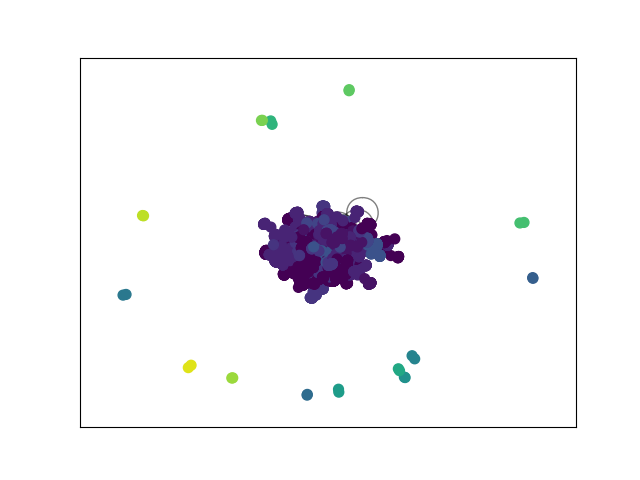
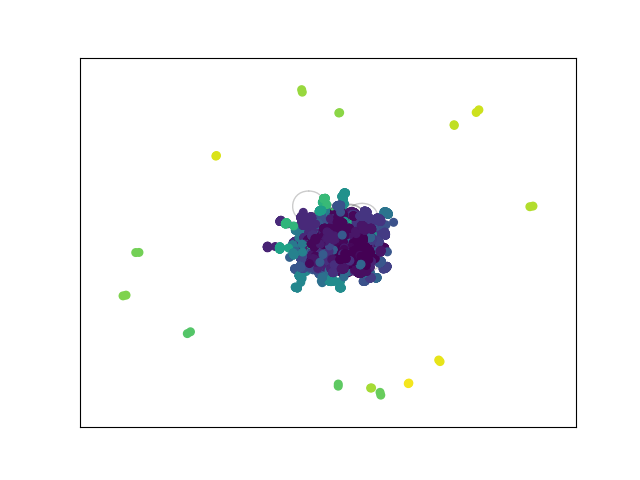
Revisions

diff --git a/Analysis.py b/Analysis.py
@@ -1,9 +1,10 @@
 import networkx as nx
 import matplotlib.pyplot as plt
+import numpy as np
+#%%
 
 
 
-# Apply Force-Directed layout algorithm to position nodes
 def mixing_analysis(graph, attribute):
     assortativity_coefficient = nx.attribute_assortativity_coefficient(graph, attribute)
     print(assortativity_coefficient)
@@ -13,7 +14,7 @@ def mixing_analysis(graph, attribute):
 
 def detect_communities(graph):
     # Find communities using the greedy modularity maximization
-    communities = nx.community.greedy_modularity_communities(graph,best_n=20)
+    communities = nx.community.greedy_modularity_communities(graph,best_n=100)
 
     # Visualization setup
     pos = nx.spring_layout(graph)  # Node positions in 2D space using spring layout
@@ -26,10 +27,10 @@ def detect_communities(graph):
             color_map[node] = idx  # Assign community index as color
 
     # Draw nodes with community colors
-    nx.draw_networkx_nodes(graph, pos, node_color=[colors(color_map[node] / len(communities)) for node in graph], node_size=50)
+    nx.draw_networkx_nodes(graph, pos, node_color=[colors(color_map[node] / len(communities)) for node in graph], node_size=30)
 
     # Draw edges
-    nx.draw_networkx_edges(graph, pos, alpha=0.5)
+    nx.draw_networkx_edges(graph, pos, alpha=0.2)
 
     plt.savefig('greedy_modularity_communities.png')
     plt.tight_layout()
@@ -40,7 +41,7 @@ def detect_communities(graph):
 
 
 ### Step 4: Ranking Methodologies (PageRank)
-#Finally, let's use PageRank to rank the nodes in the network based on their influence.
+#PageRank to rank the nodes in the network based on their influence.
 
 def rank_nodes(graph):
     pagerank = nx.pagerank(graph)
@@ -60,4 +61,9 @@ def rank_nodes(graph):
     plt.tight_layout()
     plt.show()
 
-
+#%%
+g = nx.read_gml('n19.gml')
+#%%
+communities = detect_communities(g)
+#%%
+len(np.unique(communities))
